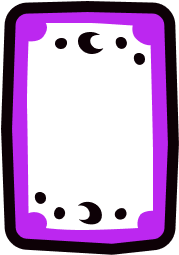
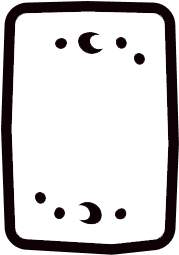
Gameplay Ready

diff --git a/Assets/Scripts/Gameplay/Card.cs b/Assets/Scripts/Gameplay/Card.cs
@@ -9,12 +9,29 @@ public class Card : MonoBehaviour
     Transform assignedSlot;
 
     public bool isAvailable = true;
+    public SpriteRenderer borderRenderer;
 
     //PLACEHOLDER
     public TextMesh textMesh;
 
     char letter;
     Sprite letterSprite;
+
+    public Color baseColor = new Color(188f / 255f, 39f / 255f, 240f / 255f);
+    public Color addColor = new Color(38f/255f, 206f / 255f, 75f / 255f);
+    public Color removeColor = new Color(206f / 255f, 38f / 255f, 63f / 255f);
+    public Color alreadyColor = new Color(104f / 255f, 199f / 255f, 191f / 255f);
+
+    Color currentColor;
+
+
+
+    public enum CardType
+    {
+        Base, Add, Remove, AlreasyPresent
+    }
+
+    Dictionary<CardType, Color> colorDictionary = new Dictionary<CardType, Color>();
 
     public Card(char letter)
     {
@@ -28,7 +45,12 @@ public class Card : MonoBehaviour
 
     void Start()
     {
-        
+        colorDictionary.Add(CardType.Base, baseColor);
+        colorDictionary.Add(CardType.Add, addColor);
+        colorDictionary.Add(CardType.Remove, removeColor);
+        colorDictionary.Add(CardType.AlreasyPresent, alreadyColor);
+
+        currentColor = baseColor;
     }
 
     // Update is called once per frame
@@ -41,10 +63,12 @@ public class Card : MonoBehaviour
     {
         //letterSR.sprite = letterSprite;
         textMesh.text = letter.ToString();
+        borderRenderer.color = currentColor;
     }
-    public void Setup(char letter)
+    public void Setup(char letter, CardType cType = CardType.Base)
     {
         this.letter = letter;
+        currentColor = colorDictionary[cType];
         //letterSprite = GameManager.instance.GetLetterSprite(letter);
 
         Setup();
@@ -75,5 +99,20 @@ public class Card : MonoBehaviour
     {
         textMesh.GetComponent<MeshRenderer>().enabled = b;
         letterSR.enabled = b;
+        borderRenderer.enabled = b;
+
+    }
+
+    public void SetColor(CardType cType)
+    {
+        currentColor = colorDictionary[cType];
+        borderRenderer.color = currentColor;
+    }
+
+    public void SetLayer(int layer)
+    {
+        letterSR.sortingOrder = layer;
+        textMesh.GetComponent<MeshRenderer>().sortingOrder = layer + 2;
+        borderRenderer.sortingOrder = layer + 1;
     }
 }

diff --git a/Assets/Scripts/Managers/GameManager.cs b/Assets/Scripts/Managers/GameManager.cs
@@ -349,7 +349,8 @@ public class GameManager : MonoBehaviour
 
     void PickWrongCard_Internal()
     {
-        Debug.Log("strings are same? " + (currentLocationName == ExtractWord(currentGameplayString)));
+
+        
         if(currentLocationName == ExtractWord(currentGameplayString))
         {
             SetGameState(GameState.Complete);
@@ -381,8 +382,11 @@ public class GameManager : MonoBehaviour
             
             Debug.LogWarning("Gameplay: " + "Removed " + guess + " - New string is _" + ExtractWord(currentGameplayString) + "_" );
 
+            Card.CardType cardType = currentGameplayString.Contains(guess.ToString()) ? Card.CardType.AlreasyPresent : Card.CardType.Remove;
+
             MainCharacter.instance.ReleaseSlot(analyzedPosition);
             MainCharacter.instance.SetupCardOnHand(guess);
+            MainCharacter.instance.ChangeColorOnCard(cardType);
             EventManager.instance.SetCharacterAnimation("takeCard");
 
             MainCharacter.instance.RegisterNewGameplayState(GameplayState.WaitingPlayerRelease);
@@ -403,13 +407,18 @@ public class GameManager : MonoBehaviour
 
         char substitute = currentLocationName[thisAnalyzedPosition];
 
+        Card.CardType cardType = currentGameplayString.Contains(substitute.ToString()) ? Card.CardType.AlreasyPresent : Card.CardType.Add;
+
         previousGameplayString = currentGameplayString;
         currentGameplayString = currentGameplayString.Remove(thisAnalyzedPosition, 1).Insert(thisAnalyzedPosition, substitute.ToString());
         
         Debug.LogWarning("Gameplay: " + "Added " + substitute + " - New string is _" + ExtractWord(currentGameplayString) + "_");
 
+        
+
         MainCharacter.instance.BookCardForSlot(thisAnalyzedPosition, substitute);
         MainCharacter.instance.SetupCardOnHand(substitute);
+        MainCharacter.instance.ChangeColorOnCard(cardType);
         EventManager.instance.SetCharacterAnimation("drawCard");
 
         MainCharacter.instance.RegisterNewGameplayState(GameplayState.WaitingPlayerPress);

diff --git a/Assets/Scripts/Gameplay/MainCharacter.cs b/Assets/Scripts/Gameplay/MainCharacter.cs
@@ -22,6 +22,7 @@ public class MainCharacter : MonoBehaviour
     {
         cardOnHand = PoolingManager.instance.GetAvailableCard();
         cardOnHand.SetVisibility(false);
+        
         cardOnHand.AssignSlot(handSocket);
 
 
@@ -40,7 +41,7 @@ public class MainCharacter : MonoBehaviour
     // Update is called once per frame
     void Update()
     {
-        
+        cardOnHand.SetLayer(18);
     }
 
     public void PlaySound(AudioClip audio)
@@ -117,5 +118,10 @@ public class MainCharacter : MonoBehaviour
     public void ApplyState()
     {
         GameManager.instance.SetGameplayPhase(nextState);
+    }
+
+    public void ChangeColorOnCard(Card.CardType type)
+    {
+        cardOnHand.SetColor(type);
     }
 }
